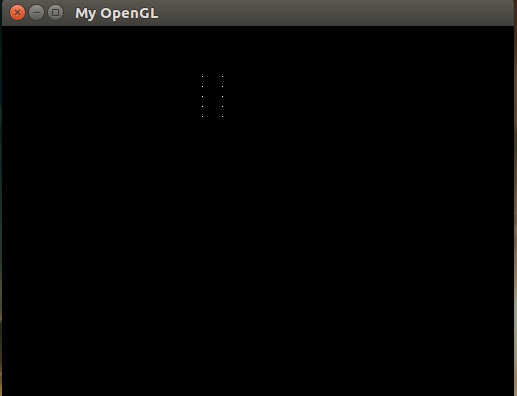
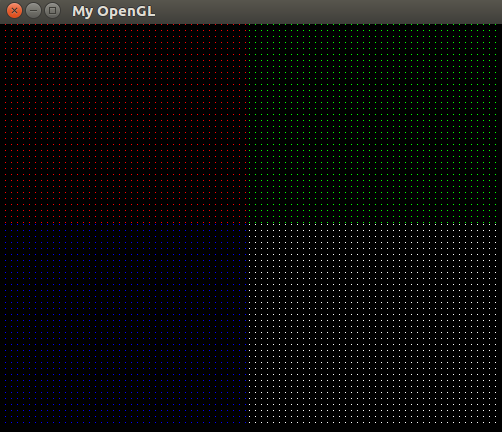
adding new putPixel print

Changed region(s): [[0.0, 0.0, 1.0, 1.0], [0.0, 0.1515, 0.0299, 1.0]]

diff --git a/cg_framework/main.cpp b/cg_framework/main.cpp
@@ -9,7 +9,7 @@ void MyGlDraw(void)
 	//*************************************************************************
 
 	int height, width;
-	std::vector<int> color1, color2, color3;
+	std::vector<int> color1, color2, color3, color4;
 
 	//RGBA Color
 	color1.push_back(255);
@@ -17,30 +17,16 @@ void MyGlDraw(void)
 	color1.push_back(0);
 	color1.push_back(1);
 
-	color2.push_back(255);
 	color2.push_back(0);
+	color2.push_back(255);
 	color2.push_back(0);
 	color2.push_back(1);
 
 	color3.push_back(0);
 	color3.push_back(0);
-	color3.push_back(0);
+	color3.push_back(255);
 	color3.push_back(1);
 
-	//Draw Line
-	Vertex first(50,50,350,51);
-	bresenhamAlgorithm(first, color1);
-
-	// for (size_t i = 0; i < 50; i++) {
-	// 	for (size_t j = 0; j < 400; j++) {
-	// 		putPixel(j, i, color1);
-	// 	}
-	// }
-
-	Vertex second(50,50,200,400);
-	bresenhamAlgorithm(second, color2);
-	Vertex third(400,50,200,400);
-	bresenhamAlgorithm(third, color3);
 	//Triangle
 	// Vertex first(0,0,400,1);
 	// Vertex second(0,0,200,400);
